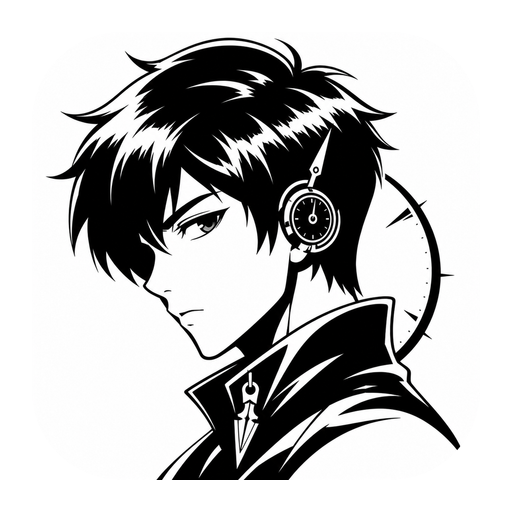
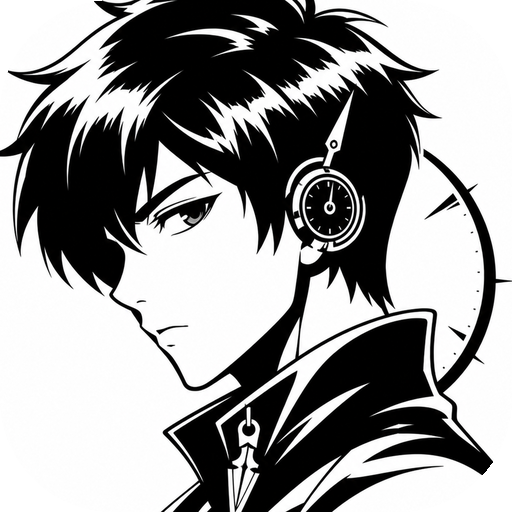
feat!: appname 改为 ekko-studio + 换高清图标（FPK 0.7.24-7）
⚠ BREAKING：appname 是应用技术标识（决定 @apphome/@appcenter/@appdata
   三个数据目录名、服务用户名、桌面启动项 ID）。改名 = 换应用，
   升级前必须迁移旧数据目录，否则新实例读不到会话/记忆/技能。

appname 改名（hermes-studio -> ekko-studio）：
- manifest: appname + desktop_applaunchname
- config/privilege: username/groupname
- config/resource: data-share name
- app/ui/config: .Application key（必须与 desktop_applaunchname 逐字一致）
- cmd/*: /var/apps/<app> 锚点、@app{home,center,data}/<app> 路径、
         TRIM_USERNAME 兜底默认值、/tmp/<app>-* 日志路径
- app/bin/hermes-web-ui: @apphome 探测路径
- scripts/build-fpk.sh: APPNAME 同步（fnpack 产物名 = manifest appname）
- CI APP_NAME 同步

保持不变（上游/内部标识，改了会找不到文件）：
  hermes-web-ui / hermes-agent / hermes_bridge / hermes-home / HERMES_HOME /
  hermes-agent-src / hermes-agent-node / hermes-studio-mcp.mjs /
  HERMES_STUDIO_VERSION / hermes-studio-version.env

图标换高清版：
  原图标实际是由 256 版放大的（实测 512 缩回 256 与 256 版平均像素差仅 1.02），
  且源分辨率不足导致模糊。改为从上游 1254x1254 官方 logo 独立重采样出
  512/256/64 三个尺寸，清晰度提升（边缘 stddev 72.8 -> 80.9）。

版本 bump 0.7.24-6 -> 0.7.24-7：appname 已变 = 与旧包不同应用，
  同版本号会造成混淆。

diff --git a/README.md b/README.md
@@ -4,7 +4,7 @@
 
 - **上游**：`EKKOLearnAI/ekko-studio`（原 `EKKOLearnAI/hermes-studio`，同一仓库改名）
 - **产物**：`fnos-ekko-studio_v<version>.fpk`（滚动最新版为 `fnos-ekko-studio.fpk`）
-- **appname**：`hermes-studio`（技术标识，数据目录名 —— **故意不改**）
+- **appname**：`ekko-studio`（技术标识，数据目录名）
 - **display_name**：`Ekko Studio`（应用中心显示名）
 - **服务端口**：8648
 
@@ -12,8 +12,9 @@
 > 服务用户名、桌面启动项 ID）。改它等于换应用，当前实例会断且必须迁移数据。
 > 用户看到的名字由 `display_name` 控制。
 >
-> **产物文件名已从 `fnos-hermes-studio_*` 改为 `fnos-ekko-studio_*`**（2026-09-25）。
-> 这是纯文件名，与 appname 无关，不影响安装与升级。v0.7.24-6 及更早的包仍是旧名。
+> **历史**：本应用 appname 原为 `hermes-studio`，2026-09-25 改为 `ekko-studio`
+> （同步把产物名从 `fnos-hermes-studio_*` 改为 `fnos-ekko-studio_*`）。
+> 升级到新版需先迁移旧数据目录，否则新实例读不到会话/记忆/技能。
 
 ---
 
